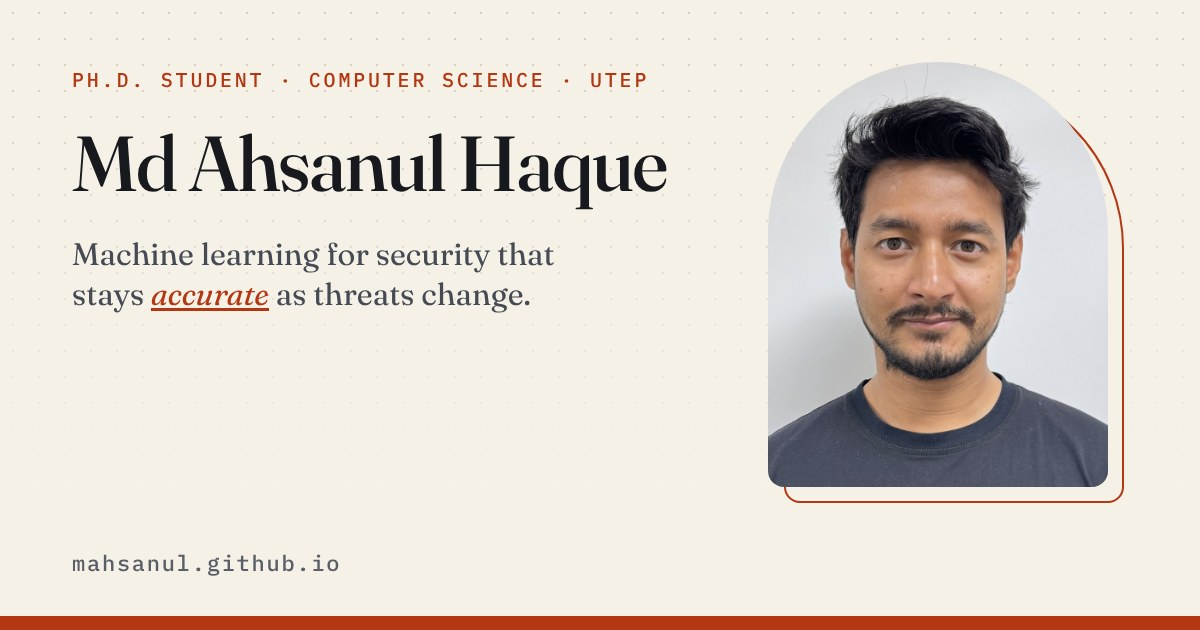
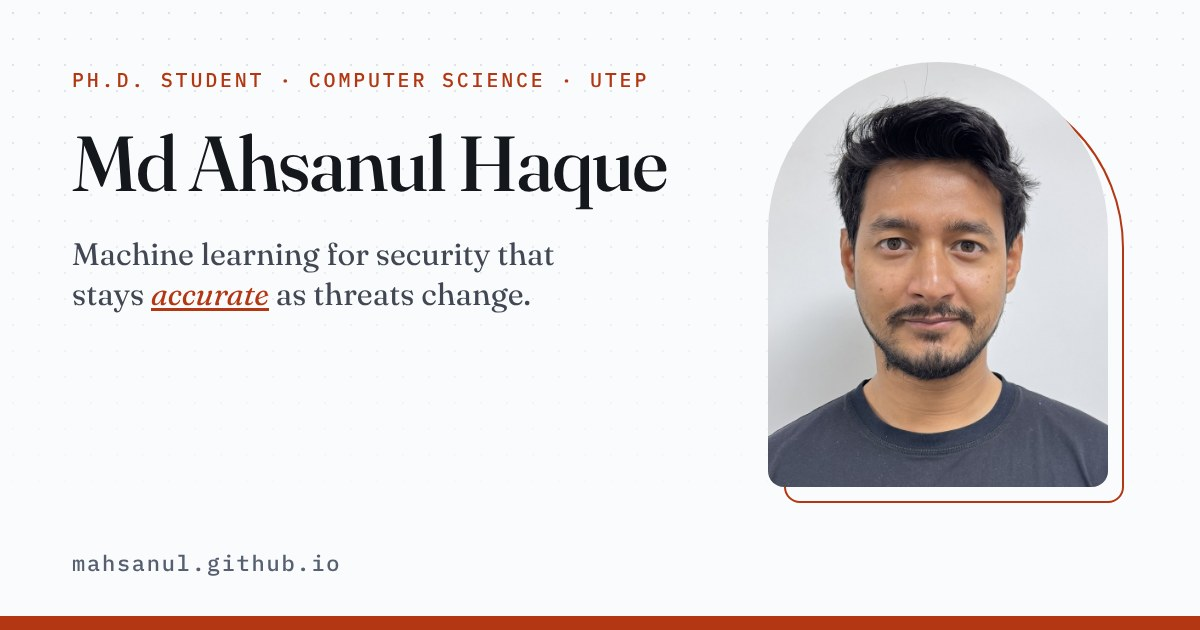
Switch to a clean near-white theme
- Replace the warm cream background with a cool near-white page, white
  cards, and light gray panels. Accent colors stay the same.
- Move the page background colors into the BRAND COLORS block at the top
  of assets/css/site.css, so the look can be changed in one place.
- Update browser theme color, web manifest, home-screen icon, and the
  social sharing image to match.
- Show the four research areas in a 2 by 2 grid.
- Guide: document how to choose white, cool white, or cream backgrounds.

Claude-Session: https://claude.ai/code/session_016GfXHxF5YTRWWfBKxK8WBx

diff --git a/assets/css/site.css b/assets/css/site.css
@@ -40,17 +40,24 @@
      ====================================================================== */
   --brand-accent-light: #B33712;        /* vermilion */
   --brand-accent-light-hover: #8F2A0C;
-  --brand-accent-light-soft: #F1D9CB;   /* pale background tint */
-  --brand-accent-light-text: #FFF8F0;   /* text on top of the accent color */
+  --brand-accent-light-soft: #FBE4D9;   /* pale background tint */
+  --brand-accent-light-text: #FFFFFF;   /* text on top of the accent color */
   --brand-accent-dark: #FF8A5C;
   --brand-accent-dark-hover: #FFB08E;
   --brand-accent-dark-soft: #3A211A;
   --brand-accent-dark-text: #1A0D07;
 
   --brand-second-light: #0E5A5F;        /* teal */
-  --brand-second-light-soft: #D3E5E1;
+  --brand-second-light-soft: #DCEDEA;
   --brand-second-dark: #5CC9C1;
   --brand-second-dark-soft: #143B3C;
+
+  /* PAGE BACKGROUND, light theme (a clean, near-white look) */
+  --brand-page-light: #FAFBFC;          /* page background */
+  --brand-card-light: #FFFFFF;          /* cards and boxes */
+  --brand-panel-light: #F0F2F5;         /* quiet panels and the footer */
+  --brand-line-light: #E2E6EB;          /* thin lines */
+  --brand-line-strong-light: #BFC6CF;  /* stronger lines */
 
   /* ====================================================================== */
 
@@ -59,24 +66,24 @@
   --sans: "IBM Plex Sans", system-ui, -apple-system, "Segoe UI", Roboto, "Helvetica Neue", Arial, sans-serif;
   --mono: "IBM Plex Mono", ui-monospace, SFMono-Regular, Menlo, Consolas, monospace;
 
-  /* Light theme: warm paper and black ink */
-  --paper: #F6F1E7;          /* page background */
-  --paper-raised: #FBF8F1;   /* cards */
-  --paper-sunk: #EDE6D6;     /* quiet panels, footer */
-  --ink: #17191F;            /* main text */
-  --ink-soft: #454A55;       /* secondary text */
-  --ink-faint: #5A5E69;      /* small labels */
-  --rule: #D9D0BD;           /* thin lines */
-  --rule-strong: #B3A78F;    /* stronger lines */
+  /* Light theme: near-white background and dark ink */
+  --paper: var(--brand-page-light);
+  --paper-raised: var(--brand-card-light);
+  --paper-sunk: var(--brand-panel-light);
+  --ink: #14171C;            /* main text */
+  --ink-soft: #424853;       /* secondary text */
+  --ink-faint: #566070;      /* small labels */
+  --rule: var(--brand-line-light);
+  --rule-strong: var(--brand-line-strong-light);
   --accent: var(--brand-accent-light);
   --accent-hover: var(--brand-accent-light-hover);
   --accent-soft: var(--brand-accent-light-soft);
   --on-accent: var(--brand-accent-light-text);
   --teal: var(--brand-second-light);
   --teal-soft: var(--brand-second-light-soft);
-  --panel-bg: #17191F;       /* dark panel (contact section) */
-  --panel-fg: #F6F1E7;
-  --panel-fg-soft: #C9C3B6;
+  --panel-bg: #14171C;       /* dark panel (contact section) */
+  --panel-fg: #F7F8FA;
+  --panel-fg-soft: #C5CAD3;
   --panel-accent: var(--brand-accent-dark);
 
   /* Sizes */
@@ -487,7 +494,7 @@ input[type="range"]::-moz-range-thumb { width: 14px; height: 14px; border-radius
 .now__list li::before { content: ""; position: absolute; left: 0; top: 0.6em; width: 7px; height: 7px; border-radius: 50%; background: var(--accent); }
 @media (min-width: 1040px) { .about { grid-template-columns: minmax(0, 1fr) 300px; gap: 56px; } }
 
-.themes { display: grid; grid-template-columns: repeat(auto-fit, minmax(min(100%, 300px), 1fr)); border-top: 1px solid var(--rule); border-left: 1px solid var(--rule); }
+.themes { display: grid; grid-template-columns: repeat(auto-fit, minmax(min(100%, 340px), 1fr)); border-top: 1px solid var(--rule); border-left: 1px solid var(--rule); }
 .theme { padding: 26px 26px 24px; border-right: 1px solid var(--rule); border-bottom: 1px solid var(--rule); transition: background 0.2s; }
 .theme:hover { background: var(--paper-raised); }
 .theme__no { display: block; margin-bottom: 0.9rem; font: 500 0.78rem/1 var(--mono); letter-spacing: 0.12em; color: var(--accent); }

diff --git a/_includes/head.html b/_includes/head.html
@@ -23,7 +23,7 @@
 <meta name="description" content="{{ seo_desc | strip_html | escape }}">
 <meta name="author" content="{{ p.name }}">
 <link rel="canonical" href="{{ page.url | absolute_url }}">
-<meta name="theme-color" content="#F6F1E7" media="(prefers-color-scheme: light)">
+<meta name="theme-color" content="#FAFBFC" media="(prefers-color-scheme: light)">
 <meta name="theme-color" content="#101319" media="(prefers-color-scheme: dark)">
 
 <meta property="og:type" content="{% if page.url == '/' %}profile{% else %}website{% endif %}">

diff --git a/WEBSITE_GUIDE.md b/WEBSITE_GUIDE.md
@@ -660,9 +660,47 @@ Be careful to keep every `<section>` together with its `</section>`.
 At the top of the file there is a block called **BRAND COLORS**. Change the values there.
 All pages update. (Colors are written like `#B33712`. This is called a hex code.)
 
-The current colors are vermilion (red-orange) and teal on warm paper.
-Here are three other color sets. They were checked for good contrast. To use one, replace
-the matching lines in the BRAND COLORS block with the lines below.
+The current look is a clean near-white page with vermilion (red-orange) as the main color and teal as the second color.
+
+#### Change the page background (white, cool white, or cream)
+
+In the same block there are five lines under **PAGE BACKGROUND**. Replace them with one of
+these sets. All sets were checked for good contrast.
+
+**Cool white (current)**
+
+```css
+  --brand-page-light: #FAFBFC;
+  --brand-card-light: #FFFFFF;
+  --brand-panel-light: #F0F2F5;
+  --brand-line-light: #E2E6EB;
+  --brand-line-strong-light: #BFC6CF;
+```
+
+**Pure white**
+
+```css
+  --brand-page-light: #FFFFFF;
+  --brand-card-light: #FFFFFF;
+  --brand-panel-light: #F4F5F7;
+  --brand-line-light: #E5E7EB;
+  --brand-line-strong-light: #C2C8D0;
+```
+
+**Warm cream (the first version of the site)**
+
+```css
+  --brand-page-light: #F6F1E7;
+  --brand-card-light: #FBF8F1;
+  --brand-panel-light: #EDE6D6;
+  --brand-line-light: #D9D0BD;
+  --brand-line-strong-light: #B3A78F;
+```
+
+#### Change the main colors
+
+Here are three other color sets for the main colors. They were checked for good contrast. To use one, replace
+the matching lines in the BRAND COLORS block (the lines that start with `--brand-accent` and `--brand-second`) with the lines below.
 
 **Ultramarine blue and ochre**
 
@@ -716,13 +754,14 @@ the matching lines in the BRAND COLORS block with the lines below.
 ```
 
 **Rule for your own colors:** the main color must be dark enough to read as text on the
-light paper color, and the dark-theme color must be light enough to read on the dark
+light page color, and the dark-theme color must be light enough to read on the dark
 background. Text in small sizes needs a contrast ratio of at least 4.5. You can test two colors
 for free at <https://webaim.org/resources/contrastchecker/>.
 
 **Other things in the same block:**
 
-- `--paper` is the page background, `--ink` is the text color.
+- The text colors (`--ink`, `--ink-soft`, `--ink-faint`) are just below the BRAND COLORS block, in the part called "Light theme". Dark gray text on a white page is easy to read. Do not make the text lighter than `#586070`.
+- The color of the browser bar on phones is set by `theme-color` in `_includes/head.html` and in `manifest.webmanifest`. It is optional. If you change the page background, you can change it there too.
 - **Fonts:** the site uses *Fraunces* (headings), *IBM Plex Sans* (text), and *IBM Plex Mono* (small labels). The font files are in `assets/fonts/`, so the site does not load fonts from other websites. To use a different font, upload its `.woff2` file to `assets/fonts/`, add a `@font-face` line like the existing ones at the top of `site.css`, and change `--serif`, `--sans`, or `--mono`.
 - **Dark mode:** the site follows the visitor's system setting. There is a sun/moon button in the header. The dark colors are the `-dark` values.
 
